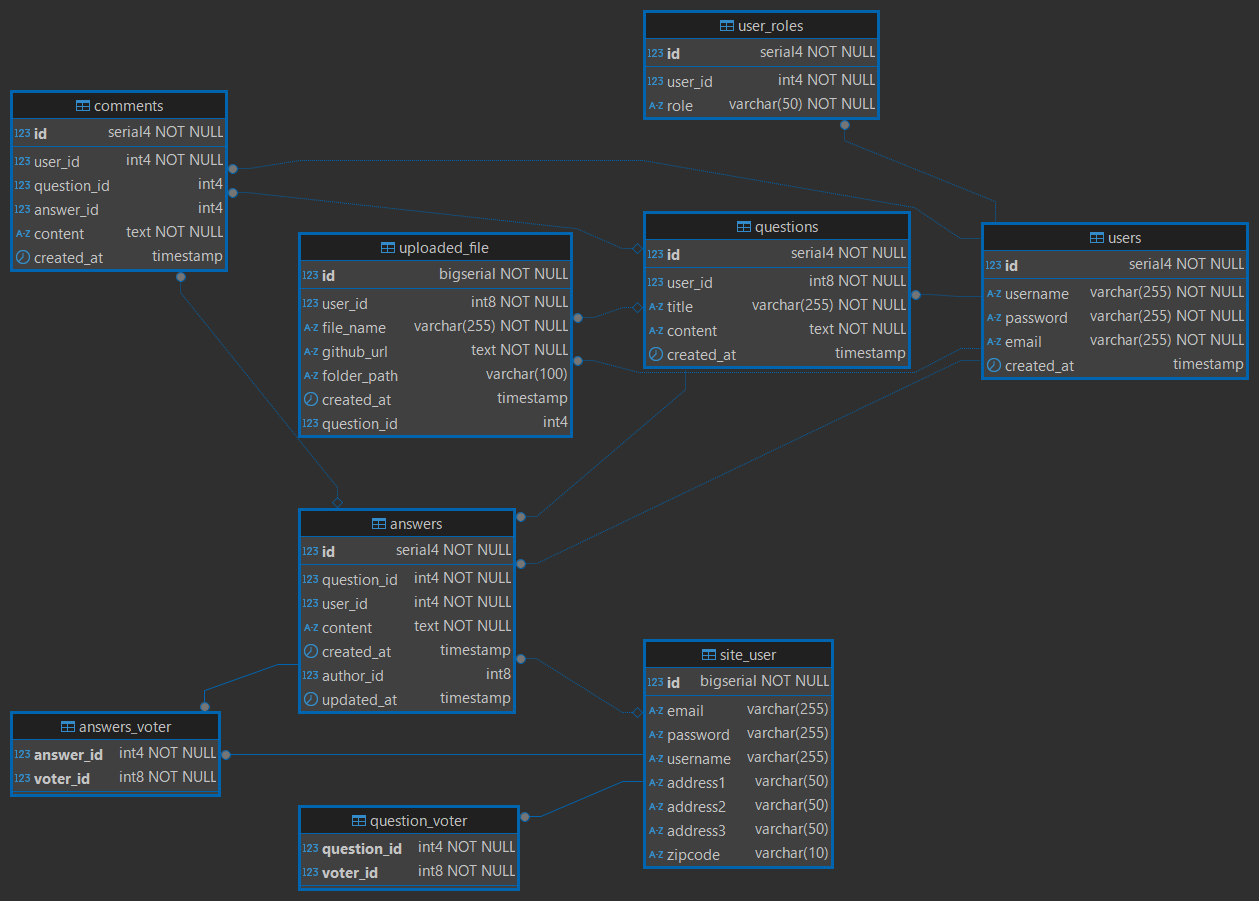
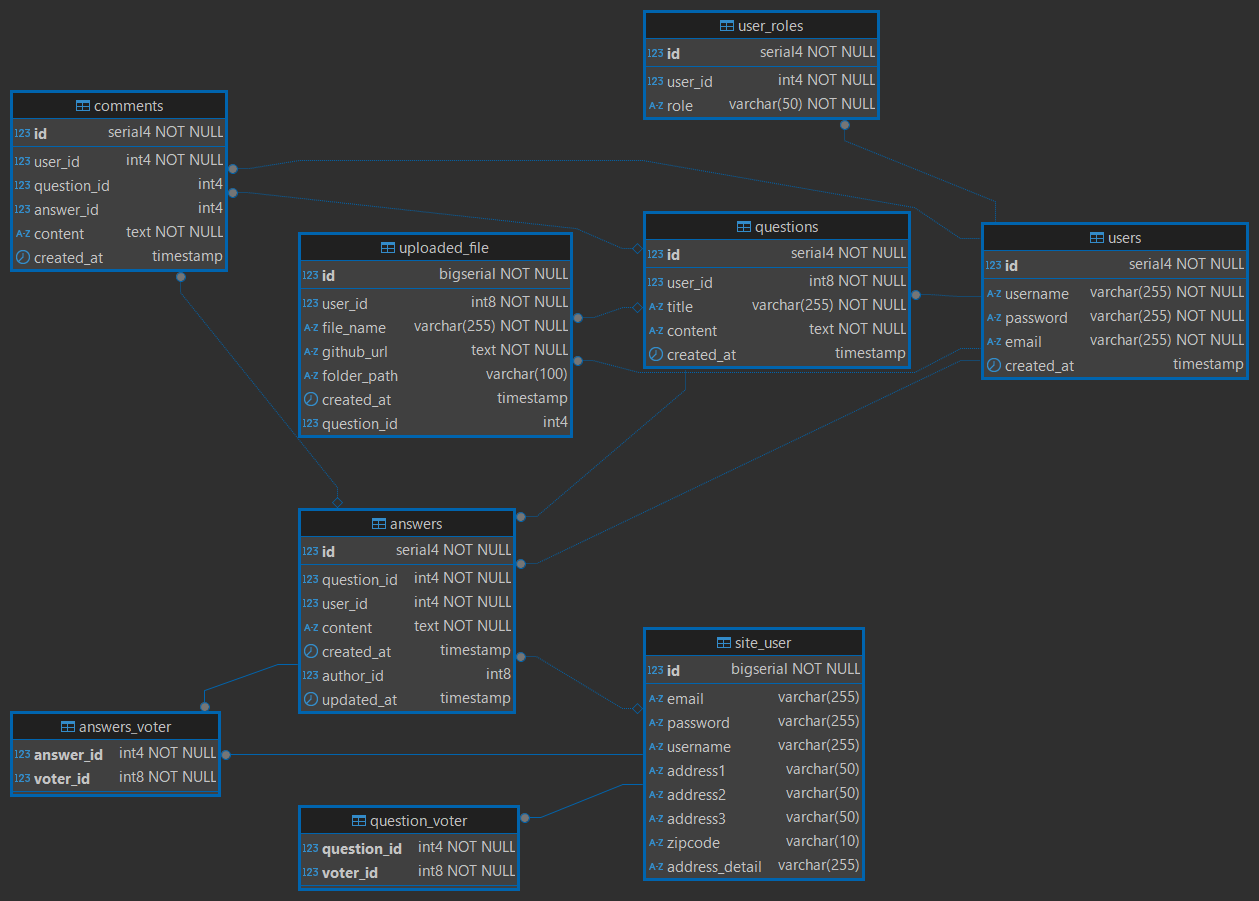
詳細住所情報入力機能追加

Changed region(s): [[0.4647, 0.6837, 0.6815, 0.9945], [0.4027, 0.7148, 0.4337, 0.7458]]

diff --git a/src/main/resources/templates/signup_form.html b/src/main/resources/templates/signup_form.html
@@ -39,6 +39,9 @@
 
 		  <label for="address3" class="form-label mt-2">町名</label>
 		  <input type="text" th:field="*{address3}" id="address3" name="address3" class="form-control" readonly>
+		  
+		  <label for="addressDetail" class="form-label mt-2">詳細住所（番地・建物名など）</label>
+		  <input type="text" th:field="*{addressDetail}" id="addressDetail" name="addressDetail" class="form-control" placeholder="例：1丁目2-3 ○○ビル101号室">
 		</div>
 		
 		<script>

diff --git a/src/main/java/com/yuru/archive/SecurityConfig.java b/src/main/java/com/yuru/archive/SecurityConfig.java
@@ -3,7 +3,7 @@ package com.yuru.archive;
 import org.springframework.context.annotation.Bean;
 import org.springframework.context.annotation.Configuration;
 import org.springframework.security.authentication.AuthenticationManager;
-import org.springframework.security.config.annotation.authentication.configuration.AuthenticationConfiguration;
+import org.springframework.security.config.annotation.authentication.builders.AuthenticationManagerBuilder;
 import org.springframework.security.config.annotation.method.configuration.EnableMethodSecurity;
 import org.springframework.security.config.annotation.web.builders.HttpSecurity;
 import org.springframework.security.config.annotation.web.configuration.EnableWebSecurity;
@@ -13,10 +13,18 @@ import org.springframework.security.web.SecurityFilterChain;
 import org.springframework.security.web.header.writers.frameoptions.XFrameOptionsHeaderWriter;
 import org.springframework.security.web.util.matcher.AntPathRequestMatcher;
 
+import com.yuru.archive.user.UserSecurityService;
+
+import lombok.RequiredArgsConstructor;
+
 @Configuration
 @EnableWebSecurity
 @EnableMethodSecurity(prePostEnabled = true)
+@RequiredArgsConstructor
 public class SecurityConfig {
+	
+	private final UserSecurityService userSecurityService;
+	
 	@Bean
 	SecurityFilterChain filterChain(HttpSecurity http) throws Exception {
 		http.authorizeHttpRequests((authorizeHttpRequests) -> authorizeHttpRequests
@@ -34,10 +42,20 @@ public class SecurityConfig {
 	PasswordEncoder passwordEncoder() {
 		return new BCryptPasswordEncoder();
 	}
-
+/*
 	@Bean
 	AuthenticationManager authenticationManager(AuthenticationConfiguration authenticationConfiguration)
 			throws Exception {
 		return authenticationConfiguration.getAuthenticationManager();
+	}
+*/
+	
+	@Bean
+	AuthenticationManager authenticationManager(HttpSecurity http) throws Exception {
+		return http.getSharedObject(AuthenticationManagerBuilder.class)
+			.userDetailsService(userSecurityService)
+			.passwordEncoder(passwordEncoder())
+			.and()
+			.build();
 	}
 }

diff --git a/src/main/java/com/yuru/archive/user/UserService.java b/src/main/java/com/yuru/archive/user/UserService.java
@@ -16,7 +16,7 @@ public class UserService {
 	private final UserRepository userRepository;
 	private final PasswordEncoder passwordEncoder;
 	
-	public SiteUser create(String username, String email, String password, String zipcode, String address1, String address2, String address3) {
+	public SiteUser create(String username, String email, String password, String zipcode, String address1, String address2, String address3, String addressDetail) {
 		SiteUser user = new SiteUser();
 		user.setUsername(username);
 		user.setEmail(email);
@@ -26,12 +26,13 @@ public class UserService {
 		user.setAddress1(address1);
 		user.setAddress2(address2);
 		user.setAddress3(address3);
+		user.setAddressDetail(addressDetail);
 		this.userRepository.save(user);
 		return user;
 	}
 
 	public SiteUser getUser(String username) {
-		Optional<SiteUser> siteUser = this.userRepository.findByusername(username);
+		Optional<SiteUser> siteUser = this.userRepository.findByUsername(username);
 		if (siteUser.isPresent()) {
 			return siteUser.get();
 		} else {

diff --git a/src/main/java/com/yuru/archive/user/UserSecurityService.java b/src/main/java/com/yuru/archive/user/UserSecurityService.java
@@ -22,7 +22,7 @@ public class UserSecurityService implements UserDetailsService {
 	
 	@Override
 	public UserDetails loadUserByUsername(String username) throws UsernameNotFoundException {
-		Optional<SiteUser> _siteUser = this.userRepository.findByusername(username);
+		Optional<SiteUser> _siteUser = this.userRepository.findByUsername(username);
 		if (_siteUser.isEmpty()) {
 			throw new UsernameNotFoundException("ユーザを探すことができません。");
 		}

diff --git a/src/main/java/com/yuru/archive/user/UserController.java b/src/main/java/com/yuru/archive/user/UserController.java
@@ -40,7 +40,8 @@ public class UserController {
 					userCreateForm.getZipcode(),
 					userCreateForm.getAddress1(),
 					userCreateForm.getAddress2(),
-					userCreateForm.getAddress3()
+					userCreateForm.getAddress3(),
+					userCreateForm.getAddressDetail()
 					);
 		} catch (DataIntegrityViolationException e) {
 			e.printStackTrace();

diff --git a/src/main/java/com/yuru/archive/user/UserRepository.java b/src/main/java/com/yuru/archive/user/UserRepository.java
@@ -5,5 +5,5 @@ import java.util.Optional;
 import org.springframework.data.jpa.repository.JpaRepository;
 
 public interface UserRepository extends JpaRepository<SiteUser, Long> {
-	Optional<SiteUser> findByusername(String username);
+	Optional<SiteUser> findByUsername(String username);
 }

diff --git a/src/main/java/com/yuru/archive/user/SiteUser.java b/src/main/java/com/yuru/archive/user/SiteUser.java
@@ -42,5 +42,9 @@ public class SiteUser {
     // 町名
     @Column(length = 50)
     private String address3;
+    
+    // 詳細住所情報
+    @Column(length = 255)
+    private String addressDetail;
 
 }

diff --git a/src/main/java/com/yuru/archive/user/UserCreateForm.java b/src/main/java/com/yuru/archive/user/UserCreateForm.java
@@ -37,4 +37,9 @@ public class UserCreateForm {
 	
 	// 町名
 	private String address3;
+	
+    // 詳細住所情報
+	@Size(max = 255)
+	private String addressDetail;
+	
 }

diff --git a/README.md b/README.md
@@ -34,6 +34,7 @@ Spring Boot × PostgreSQLをベースに、
 - Thymeleaf
 - Thumbnailator(サムネールを作るために使用しました。)
 - Docker / Docker Compose
+- 郵便番号API (ZipCloud)
 
 ## 特徴
 - 質問・回答の投稿、編集、削除機能
@@ -46,7 +47,7 @@ Spring Boot × PostgreSQLをベースに、
 ## Database設計
 本プロジェクトではPostgreSQLを使用しており、以下のようにテーブルを設計しております。
 
-### ERD(修正2版)
+### ERD(修正3版)
 ![ゆるアーカイブ初案_ERD](assets/ゆるアーカイブ修正3版_ERD.png)
 
 ### テーブル定義 (SQL)
@@ -326,3 +327,11 @@ question_detail.html での answer.voter アクセスエラーを修正（getter
 ### 💡 ユーザー体験の向上
 - 入力の手間を減らし、正確な住所データの取得を実現
 - 無効な郵便番号に対しては、フロントエンドとバックエンドの両面で即時フィードバックを提供
+
+
+## ✨ 250526追加機能及び改選事項
+1. 詳細住所入力欄（addressDetail）の追加 > テスト完了
+2. 認証ロジック自体は正しく実装されていましたが、Spring Security側で認識されない設定になっていたため、修正が必要でした。
+3. SecurityConfig内で`.userDetailsService(...)`と`.passwordEncoder(...)`の設定が抜けていたため、認証処理に反映されていませんでした。
+4. ログインフォームのPOST送信先URL(`/user/login`)に対し、`.loginProcessingUrl(...)`の明示的な指定がなかったため、認証フローが起動しませんでした。
+5. 以上の原因を1つずつ特定し、設定を修正することで、ログイン認証のフローが正常に機能することを確認しました。
